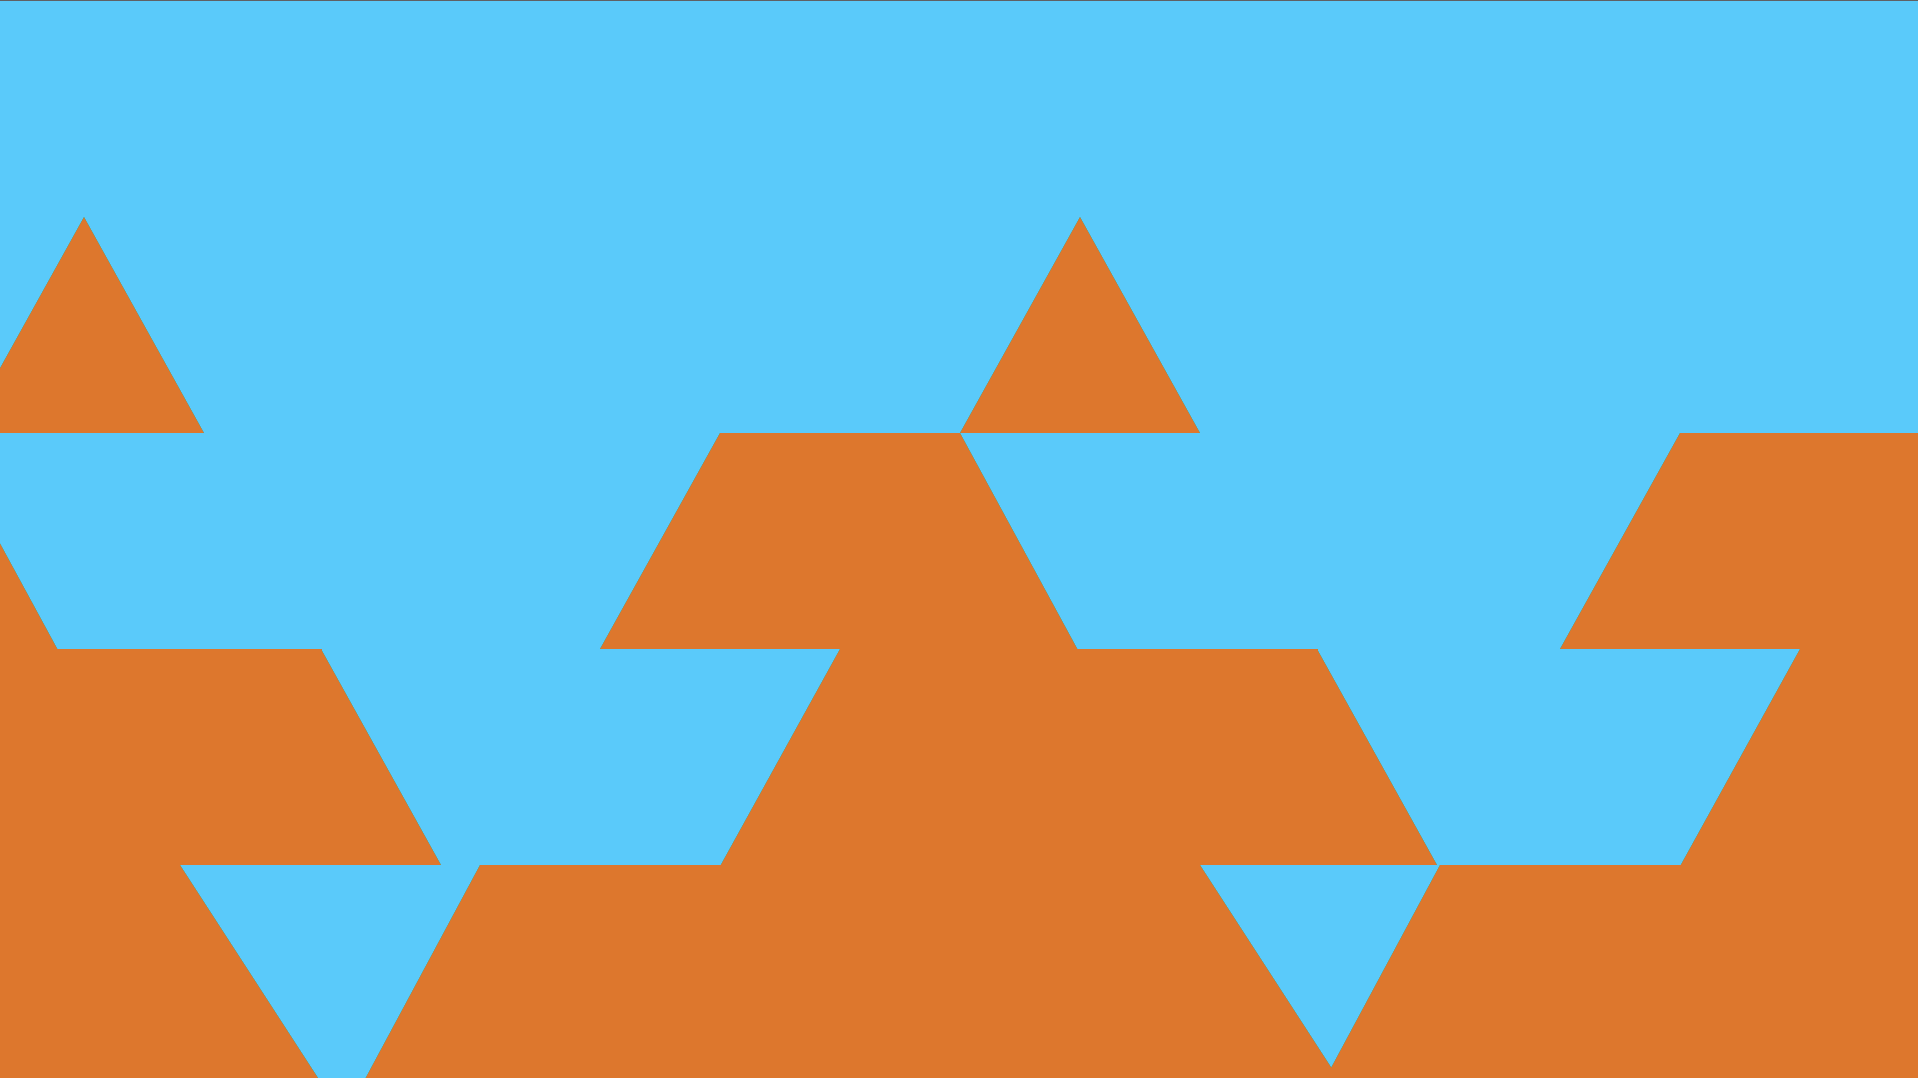
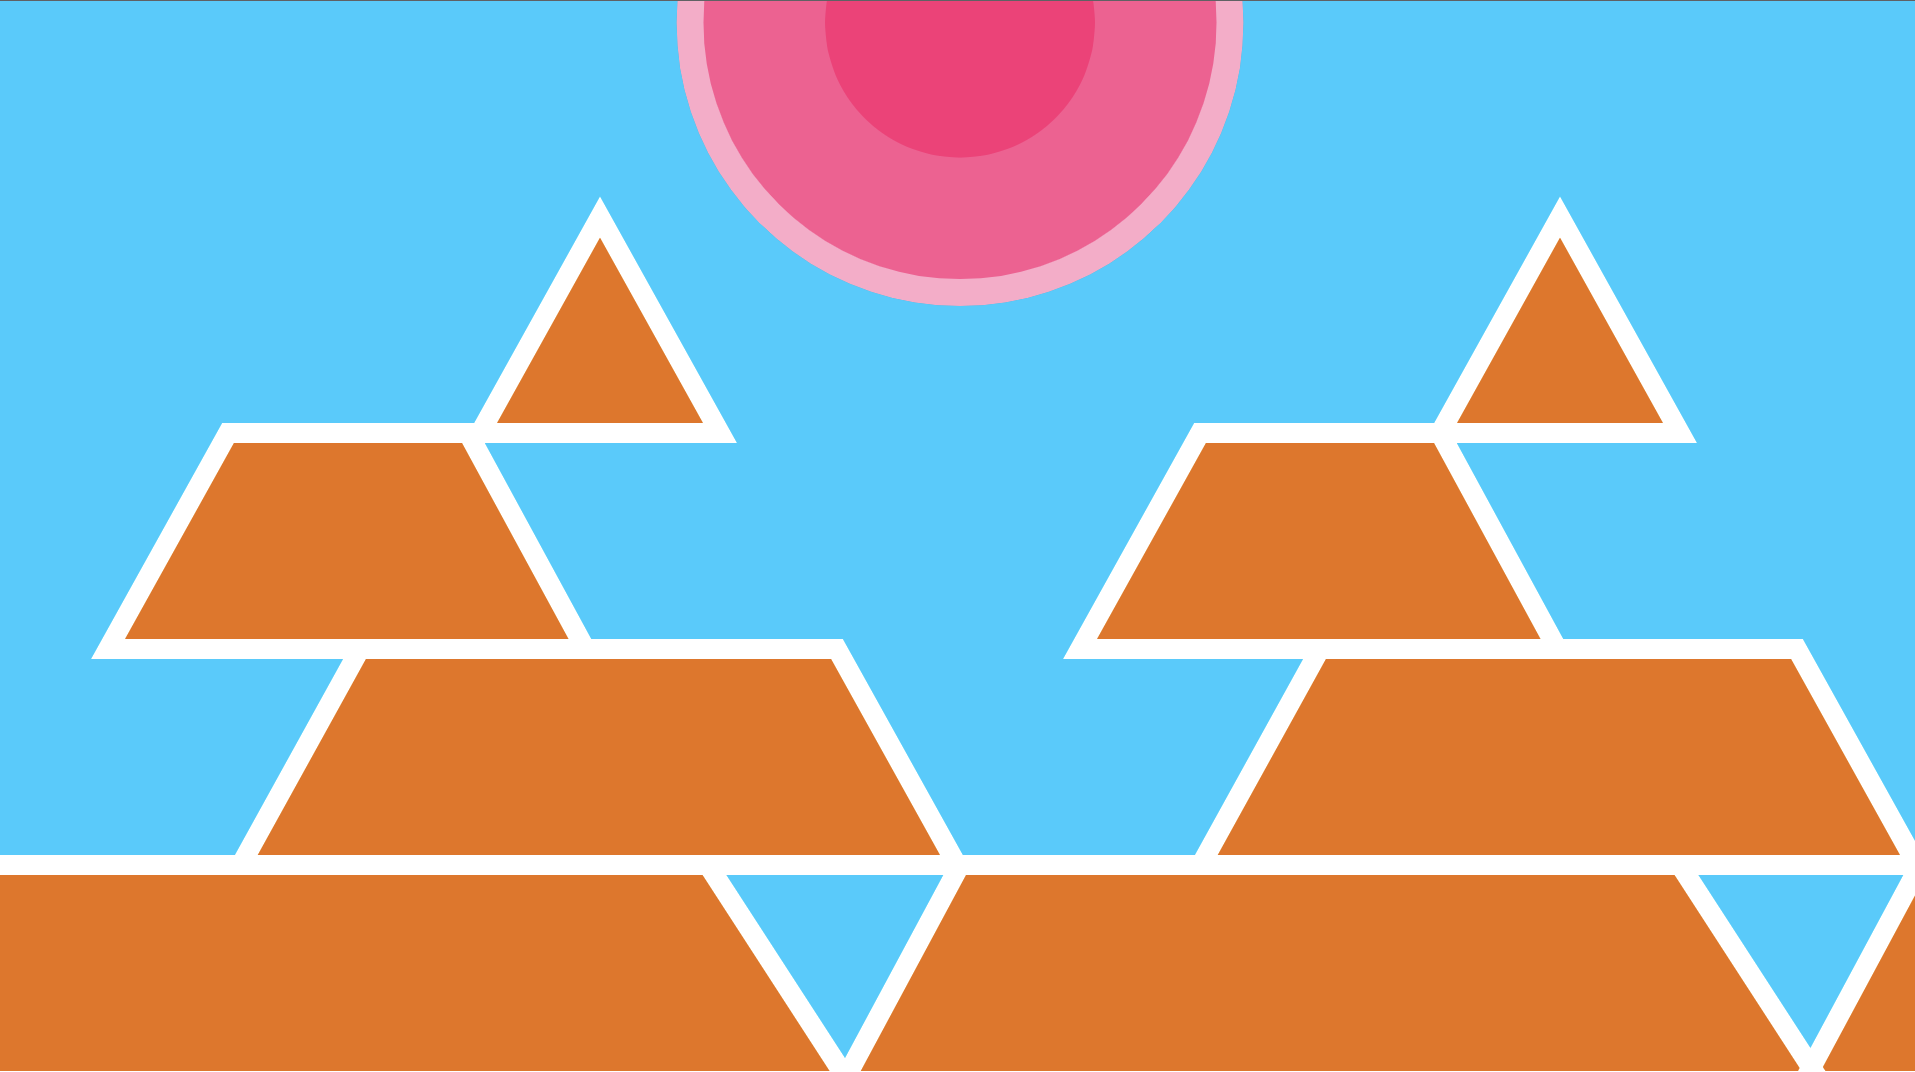
Commit for crit2 (21/03/23)

diff --git a/draw_one_frame.js b/draw_one_frame.js
@@ -58,7 +58,13 @@ function draw_one_frame(cur_frac) {
 	rect(0, 0, width, height);
   
 	// sun
+	fill('#ff5492');
+	ellipse(0.5 * width, 0.02 * height, sun_size);
 	fill('#ff2977');
+	ellipse(0.5 * width, 0.02 * height, sun_size*0.5);
+	noFill();
+	stroke("#ffa9c9");
+	strokeWeight(height/40);
 	ellipse(0.5 * width, 0.02 * height, sun_size);
   
 	// sand
@@ -162,6 +168,10 @@ function draw_one_frame(cur_frac) {
 
 		
 	  quad(base_coord,(height/5)*4,base_coord+width_rect,(height/5)*4,base_coord+width_rect+(height/9)+10,(height/5)*5,cur_x_pos-(height/5)-10,height);
+	  line(cur_x_pos+(height/9)*2,(height/5)*4,cur_x_pos+(height/9)*2,(height/5)*5);
+	  line(cur_x_pos+(height/9)*.0005,(height/5)*4,cur_x_pos+(height/9)*0.0005,(height/5)*5);
+	  line(cur_x_pos+(height/9)*4,(height/5)*4,cur_x_pos+(height/9)*4,(height/5)*5);
+
 
 	}
 
@@ -186,6 +196,9 @@ function draw_one_frame(cur_frac) {
 	  let width_rect2 = (2.65*b2_size);
 
 	  quad(base_coord2,(height/5)*3,base_coord2+width_rect2,(height/5)*3,base_coord2+width_rect2+(height/9),(height/5)*4,base_coord2-width_rect2/4,(height/5)*4);
+	  line(cur_x_pos+(height/9),(height/5)*3,cur_x_pos+(height/9),(height/5)*4);
+	  line(cur_x_pos+(height/9)*3,(height/5)*3,cur_x_pos+(height/9)*3,(height/5)*4);
+
 
 	}
 
@@ -205,7 +218,7 @@ function draw_one_frame(cur_frac) {
 		let cur_x_pos = map(cur_frac, 0, 1, grid_points2[i], grid_points2[i+1])
 
 		quad(cur_x_pos+(height/3),(height/5)*2,cur_x_pos+(height/9),(height/5)*2,cur_x_pos,(height/5)*3,cur_x_pos+(height/5)*2.21,(height/5)*3);
-
+		line(cur_x_pos+(height/9)*2,(height/5)*2,cur_x_pos+(height/9)*2,(height/5)*3);
 	}
 
 	fill('#ec7100'); //top layer

diff --git a/README.md b/README.md
@@ -16,3 +16,6 @@ My first sketch is of two pyramids. the idea is to have two of the four layers s
 
 14/03/23
 I now have all of the pyramid slabs moving and the right dimensions. Refer to development log for more info. My next step is to add more details but i have been thinking about rethinking the way i want to display what i have. I was originally going to create a scene/setting where the pyramids were in an accurate environment. i have started to rethink this because it feels too busy with the amount of movement. im leaning towards more of an abstract approach but i might backtrack if it doesnt work out. The next step is to experiment with some new designs and then ofc add some more detail. 
+
+21/03/23
+The detail on the slabs has now been added. It is easy to tell that they are pyramids now rather than just triangles being formed over and over. It does however make the animtaion rather busy. If after the next step when i have added the clouds in the lines are making it too busy i am still open to removing them and going with the slabs rather than bricks. 
